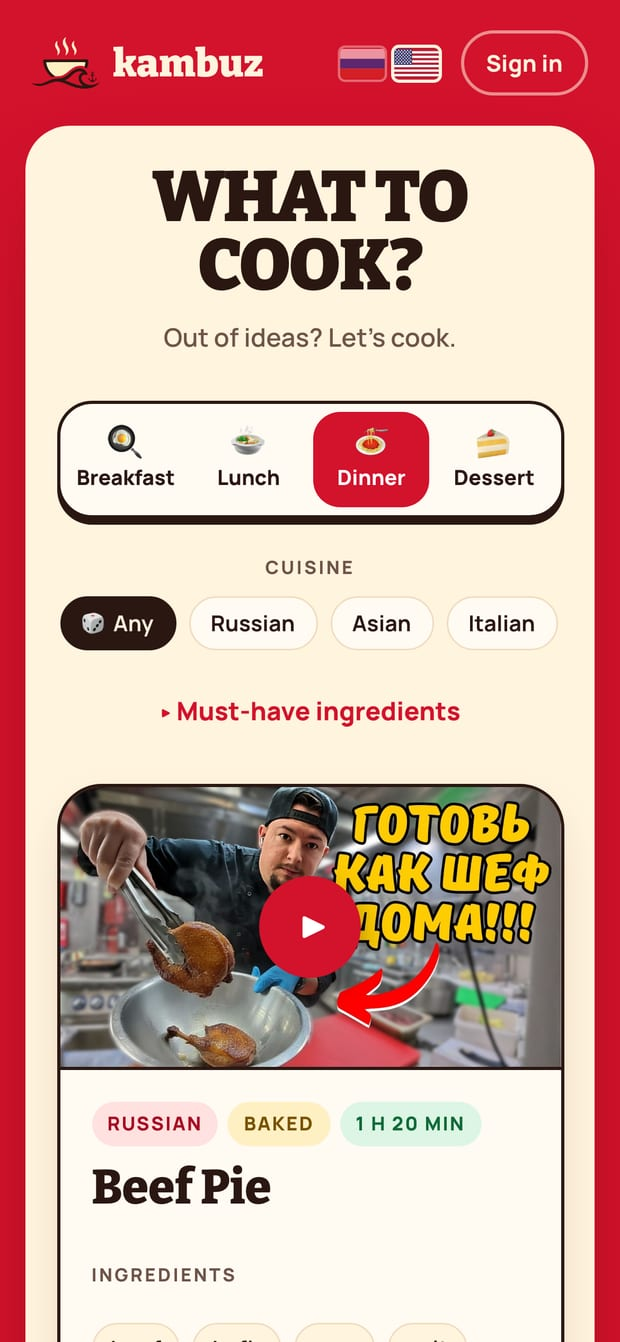
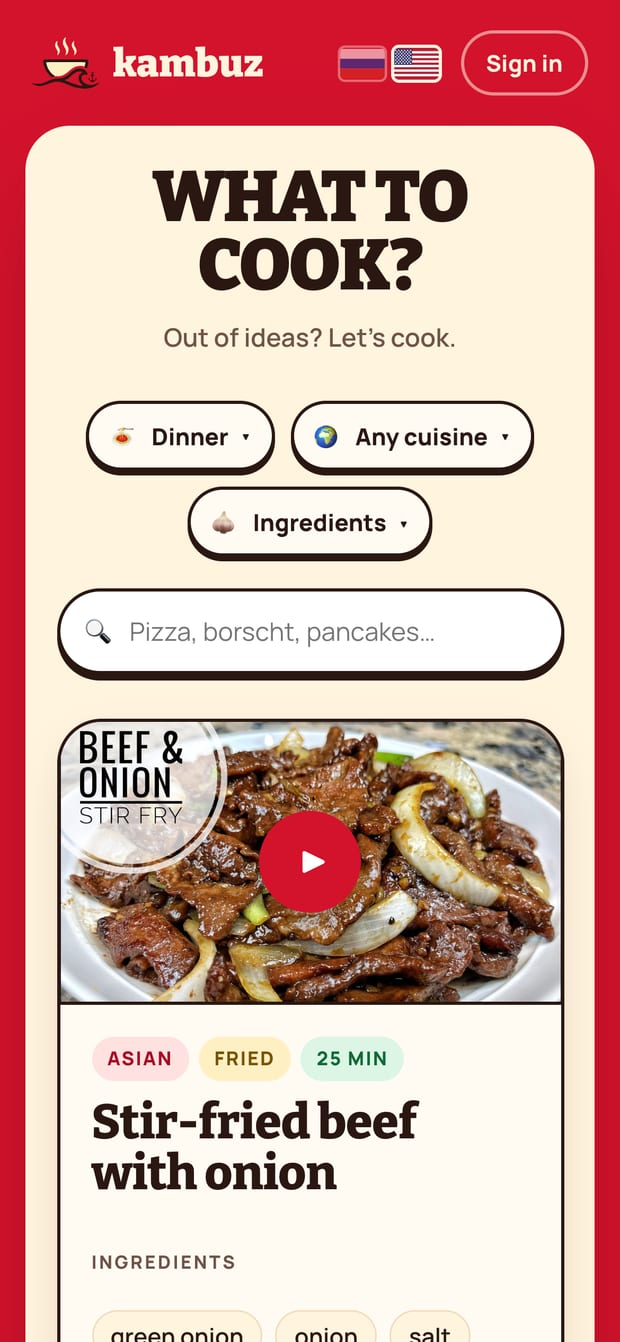
Kambuz: the new menus and search
The site's picker became three dropdown menus with a dish search under
them. The ingredients scene opens the new menu, a search scene joins both
galleries (labelled in en, sk and uk), and every Kambuz screen is retaken.
CAPTURE_CHANNEL=chrome lets the capture use the installed Chrome.

diff --git a/content/projects.ts b/content/projects.ts
@@ -245,8 +245,8 @@ export const PROJECTS: Project[] = [
       { kind: 'image', src: '/media/kambuz/recipe-mobile.jpg', aspect: PHONE },
     ],
     media: [
-      gallery('kambuz', 'desktop', ['ingredients', 'recipe']),
-      gallery('kambuz', 'mobile', ['home', 'ingredients', 'recipe']),
+      gallery('kambuz', 'desktop', ['ingredients', 'search', 'recipe']),
+      gallery('kambuz', 'mobile', ['home', 'ingredients', 'search', 'recipe']),
     ],
   },
   {
